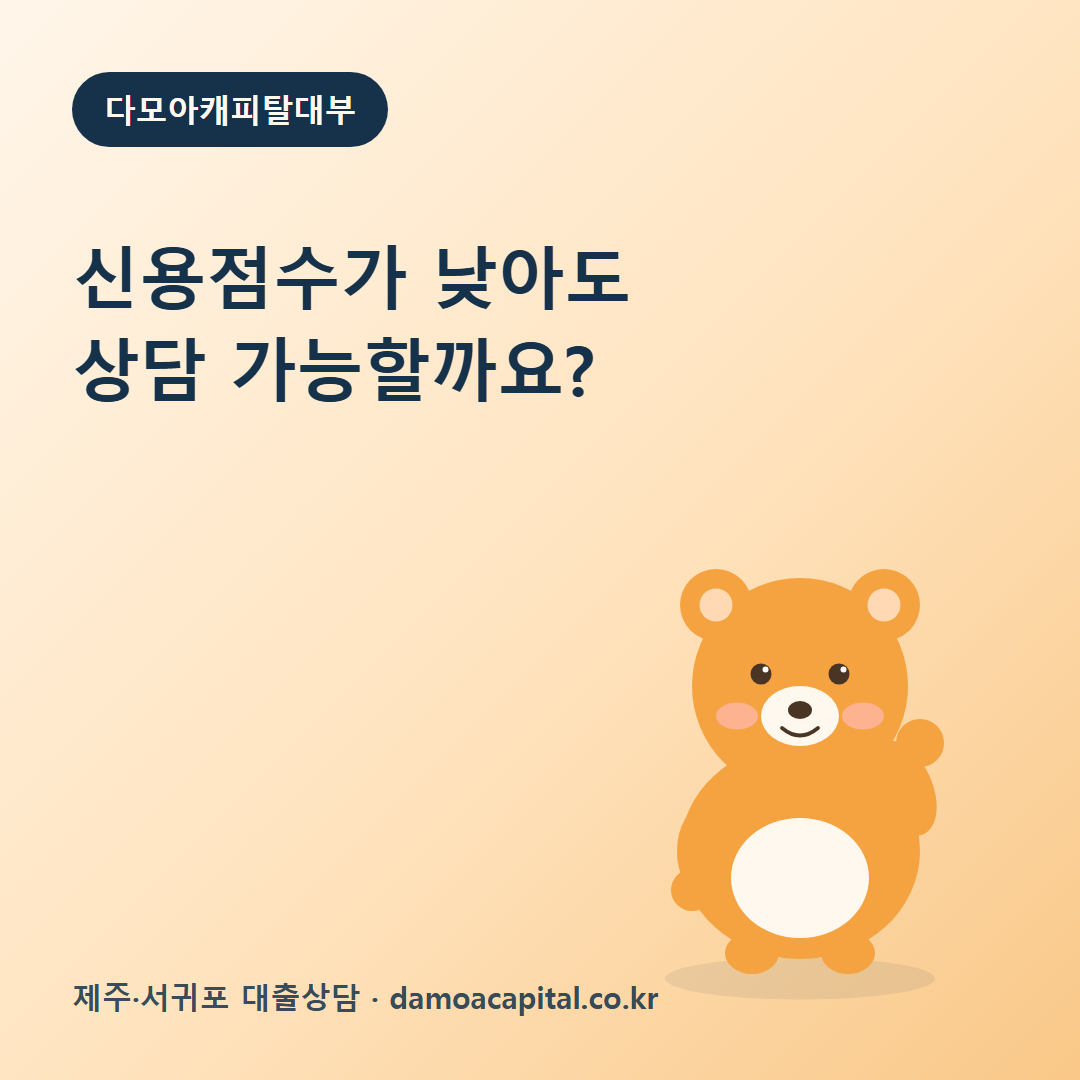
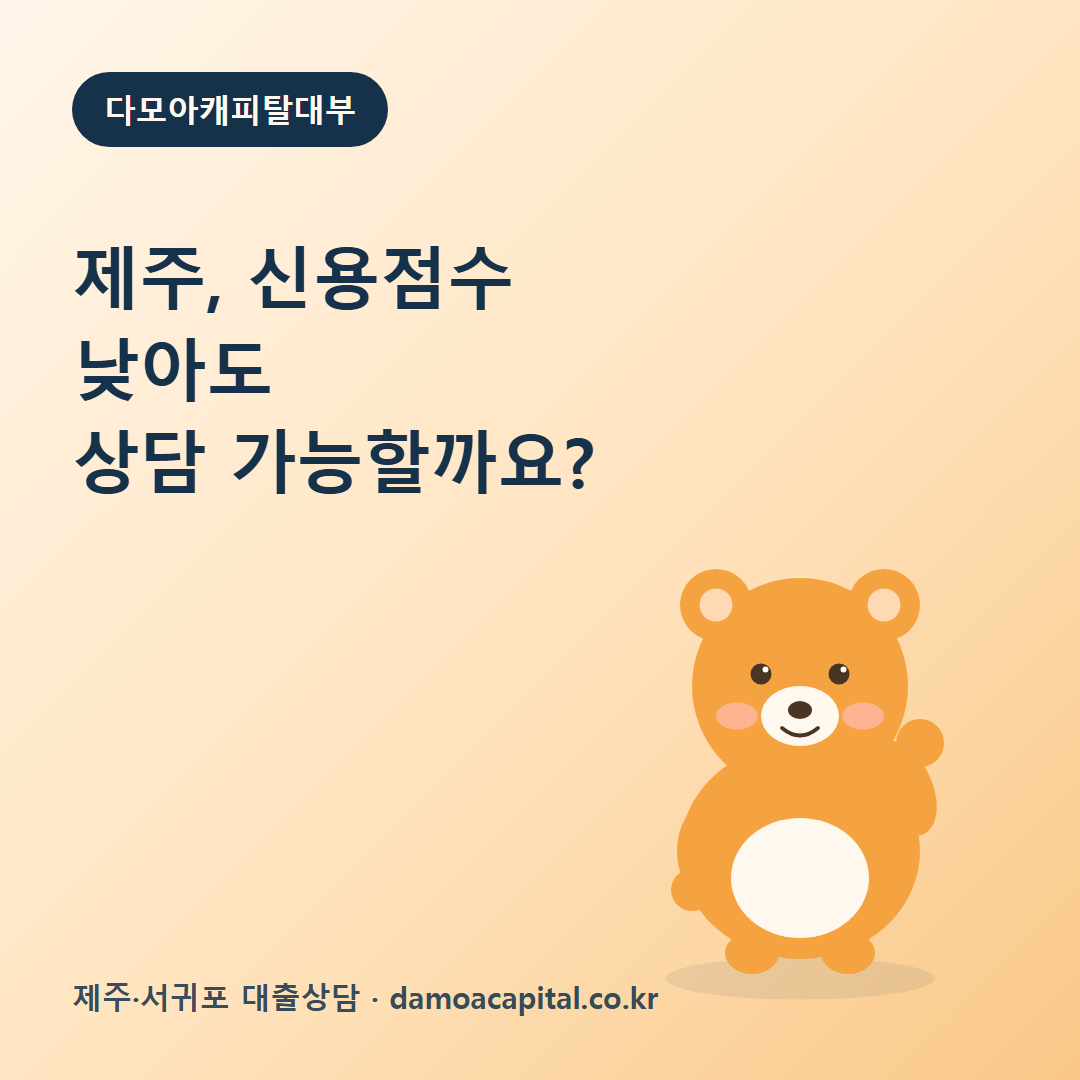
인스타 카드 헤드라인에 '제주' 접두어 항상 포함하도록 규칙 추가 및 기존 카드 재생성

Changed region(s): [[0.0611, 0.2139, 0.5806, 0.4583]]

diff --git a/config/instagram-style-guide.md b/config/instagram-style-guide.md
@@ -13,7 +13,7 @@
   [대부업 안내] 다모아캐피탈대부 | 등록번호 2024-제주제주-0025 | 연 20%(법정 최고금리 이내) | 과도한 빚, 대출은 개인신용평점 하락의 원인이 될 수 있습니다.
   ```
 - 이미지: 블로그 사진을 재사용하지 않고, `assets/brand/instagram-card-template.html` 템플릿으로 **든든이 마스코트 + 헤드라인 문구**가 들어간 1080x1080 정사각형 카드를 직접 생성한다.
-  1. 템플릿의 `__HEADLINE__`을 그 글의 후킹 문장(짧게, 필요하면 `<br>`로 2줄)으로, `__FOOTER__`를 `제주·서귀포 대출상담 · damoacapital.co.kr`로 치환한 HTML을 만든다.
+  1. 템플릿의 `__HEADLINE__`을 그 글의 후킹 문장(짧게, 필요하면 `<br>`로 2줄)으로, `__FOOTER__`를 `제주·서귀포 대출상담 · damoacapital.co.kr`로 치환한 HTML을 만든다. **헤드라인은 항상 맨 앞에 "제주"로 시작한다** (예: "제주, 신용점수 낮아도", "제주 대부업체 이용 전").
   2. 헤드리스 Chrome으로 1080x1080 스크린샷을 떠서 `instagram/images/YYYY-MM-DD-N.png`로 저장한다: `chrome.exe --headless --disable-gpu --screenshot=<출력경로> --window-size=1080,1080 --hide-scrollbars <file:///HTML경로>`
   3. 인스타 캡션 파일의 `image:` 필드는 이 카드 이미지 경로를 가리킨다 (블로그의 `drafts/images/`가 아님).
 - 카드 디자인은 배경 그라데이션(#FFF6EA→#FFE3BE→#F9C888), 헤드라인 텍스트(#16324A, 굵게), 우하단 마스코트 고정 배치를 유지해서 매번 톤을 통일한다. 헤드라인 문구만 바뀐다.
